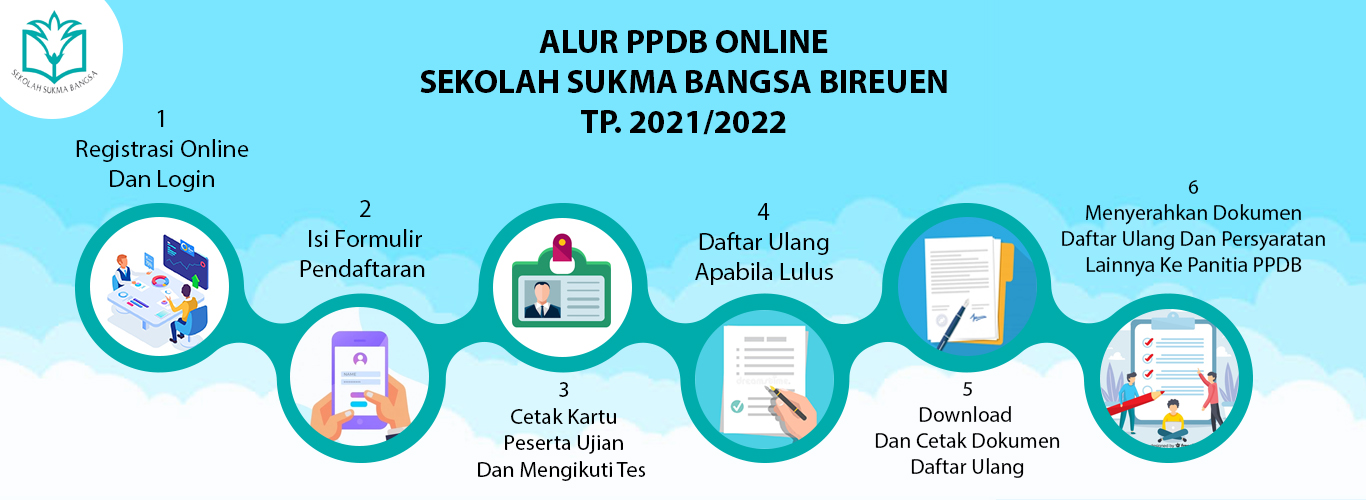
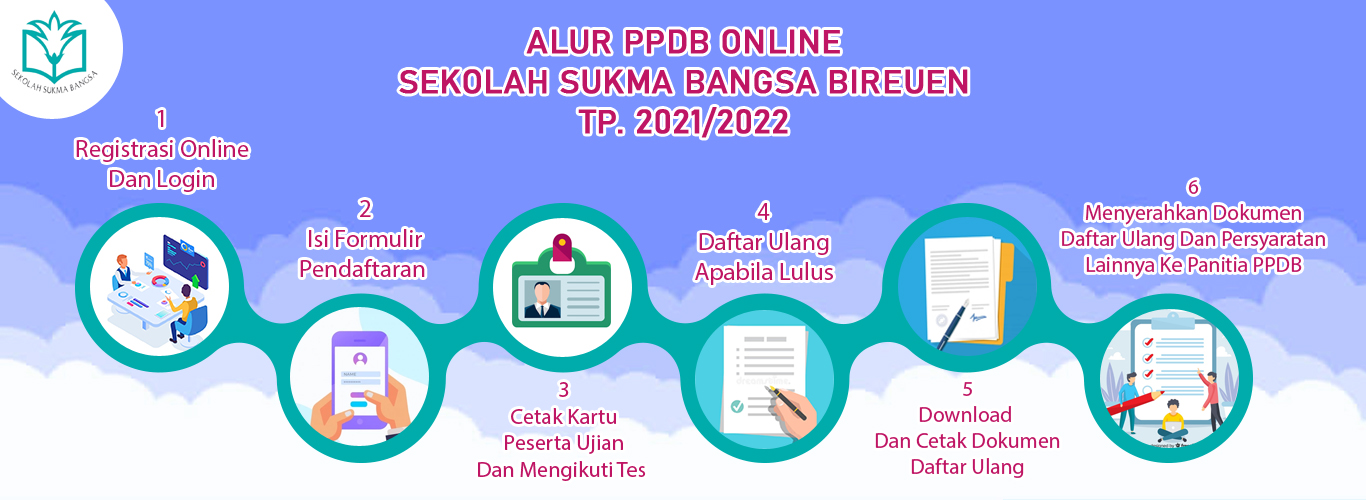
FINISHING

diff --git a/application/views/informasi.php b/application/views/informasi.php
@@ -5,9 +5,10 @@
     <!-- Required meta tags -->
     <meta charset="utf-8">
     <meta name="viewport" content="width=device-width, initial-scale=1, shrink-to-fit=no">
-
-    <!-- Bootstrap CSS -->
-    <link rel="stylesheet" href="https://cdn.jsdelivr.net/npm/bootstrap@4.6.0/dist/css/bootstrap.min.css" integrity="sha384-B0vP5xmATw1+K9KRQjQERJvTumQW0nPEzvF6L/Z6nronJ3oUOFUFpCjEUQouq2+l" crossorigin="anonymous">
+    <link rel="preconnect" href="https://fonts.gstatic.com">
+    <link rel="preconnect" href="https://fonts.gstatic.com">
+    <link rel="preconnect" href="https://fonts.gstatic.com">
+    <link href="https://fonts.googleapis.com/css2?family=RocknRoll+One&family=Share+Tech+Mono&family=Varela+Round&display=swap" rel="stylesheet">    <link rel="stylesheet" href="https://cdn.jsdelivr.net/npm/bootstrap@4.6.0/dist/css/bootstrap.min.css" integrity="sha384-B0vP5xmATw1+K9KRQjQERJvTumQW0nPEzvF6L/Z6nronJ3oUOFUFpCjEUQouq2+l" crossorigin="anonymous">
     <link rel="stylesheet" type="text/css" href="<?=base_url()?>/style.css">
     <link rel="stylesheet" href="https://cdnjs.cloudflare.com/ajax/libs/animate.css/4.1.1/animate.min.css"/>
 
@@ -17,7 +18,7 @@
   
     <nav class="navbar navbar-expand-lg navbar-light bg-light fixed-top">
     <div class="container">
-  <img src="<?=base_url()?>/logo.png" type="image/png" alt="" width="40px"><a class="navbar-brand text-info" href="#"> <b style="color:#00acac;">&nbspPPDB SSB BIREUEN</b></a></img>
+  <img src="<?=base_url()?>/logo.png" type="image/png" alt="" width="40px"><a class="navbar-brand text-info" href="#"> <b style="color:#00acac;font-family: 'Varela Round', sans-serif;">&nbspPPDB SSB BIREUEN</b></a></img>
   <button class="navbar-toggler" type="button" data-toggle="collapse" data-target="#navbarSupportedContent" aria-controls="navbarSupportedContent" aria-expanded="false" aria-label="Toggle navigation">
     <span class="navbar-toggler-icon"></span>
   </button>
@@ -25,25 +26,25 @@
   <div class="collapse navbar-collapse" id="navbarSupportedContent">
     <ul class="navbar-nav ml-auto">
       <li class="nav-item ">
-        <a class="nav-link" href="#home">Home</a>
+        <a class="nav-link" href="#home" style="font-family: 'Share Tech Mono', monospace;">Home</a>
       </li>
       <li class="nav-item ">
-        <a class="nav-link" href="#kuota">Kuota Penerimaan</a>
+        <a class="nav-link" href="#kuota" style="font-family: 'Share Tech Mono', monospace;">Kuota</a>
       </li>
       <li class="nav-item ">
-        <a class="nav-link" href="#rincian">Rincian Biaya Pendidikan</a>
+        <a class="nav-link" href="#rincian" style="font-family: 'Share Tech Mono', monospace;">Rincian Biaya</a>
       </li>
       <li class="nav-item">
-        <a class="nav-link " href="#persyaratan">Persyaratan</a>
+        <a class="nav-link " href="#persyaratan" style="font-family: 'Share Tech Mono', monospace;">Persyaratan</a>
       </li>
       <li class="nav-item">
-        <a class="nav-link " href="#alur">Alur Pendaftaran</a>
+        <a class="nav-link " href="#alur" style="font-family: 'Share Tech Mono', monospace;">Alur</a>
       </li>
       <li class="nav-item">
-        <a class="nav-link " href="#jadwal">Jadwal</a>
+        <a class="nav-link " href="#jadwal" style="font-family: 'Share Tech Mono', monospace;">Jadwal & Seleksi</a>
       </li>
       <li class="nav-item">
-        <a class="nav-link " href="#kontak">Kontak</a>
+        <a class="nav-link " href="#kontak" style="font-family: 'Share Tech Mono', monospace;">Kontak</a>
       </li>
     </ul>
   </div>
@@ -78,13 +79,13 @@
 
 
         <!-- pembukaan -->
-        <h1 class="display-4 text-white  font-weight-bold">PENERIMAAN<br>PESERTA DIDIK BARU</h1>
-        <h3 class="display-5  text-white">SD - SMP - SMA</h3>
-        <h3 class="display-5" style="color:#00acac;">SEKOLAH SUKMA BANGSA BIREUEN <span class="font-weight-bold">TA.2021/2022</span></h3>
+        <h1 class="display-4 text-white  font-weight-bold" style="font-family: 'Share Tech Mono', monospace; font-family: 'Varela Round', sans-serif;">PENERIMAAN<br>PESERTA DIDIK BARU</h1>
+        <h3 class="display-5  text-white" style="font-family: 'Share Tech Mono', monospace;">SD - SMP - SMA</h3>
+        <h3 class="display-5" style="color:#00acac;" style="font-family: 'Share Tech Mono', monospace;">SEKOLAH SUKMA BANGSA BIREUEN TP. 2021/2022</h3>
         <hr class="my-4 ">
-        <h3 class="display-5 text-white " id="demo2" >Waktu Pendaftaran :</h3>
-        <h1 id="demo" class=" text-danger"></h1><br>
-        <a class="btn btn-info btn-lg " id="demo3" href="<?=base_url('hal/login')?>" style="background-color:#00acac;" role="button"><b>Daftar Sekarang</b></a>
+        <h3 class="display-5 text-white " id="demo2" style="font-family: 'Share Tech Mono', monospace;">Waktu Pendaftaran :</h3>
+        <h1 id="demo"  style="color:#FF0000;font-size:30px;font-family: 'RocknRoll One', sans-serif;"></h1><br>
+        <a class="btn btn-info btn-lg " id="demo3" href="<?=base_url('hal/login')?>" style="background-color:#00acac; font-family: 'Share Tech Mono', monospace; font-family: 'Varela Round', sans-serif;" role="button"><b>Daftar Sekarang</b></a>
       </div>
     <div class="carousel-item active">
       <img src="<?=base_url('bg1.JPG')?>" class="d-block w-100" alt="...">
@@ -140,11 +141,11 @@
 <div  id="kuota" style="height: 680px;padding-top:70px;background-color:#f5f8fd;">
 <div class="container">
 <div class="row featurette">
-<h2 class="featurette-heading"><b>KUOTA<span class="text-info"> PENERIMAAN</span></b><br>
+<h2 class="featurette-heading" style="font-family: 'Share Tech Mono', monospace; font-family: 'Varela Round', sans-serif;"><b>KUOTA<span class="text-info"> PENERIMAAN</span></b><br>
 <hr class="my-4" style="border-color: #F05F40;width: 50%;text-align: left;margin-left: 0;margin-top:0px;border-width: 3px;">
 </h2>
 
-            <table class="table table-hover" id="example">
+            <table class="table table-hover" id="example" style="font-family: 'Share Tech Mono', monospace; font-family: 'Varela Round', sans-serif;">
           <thead class="text-center">
             <tr>
               <th scope="col">NO</th>
@@ -173,22 +174,19 @@
 <div  id="rincian" style="height: 680px;padding-top:70px;background-color:#f5f8fd;">
 <div class="container">
 <div class="row featurette">
-<h2 class="featurette-heading"><b>RINCIAN BIAYA<span class="text-info"> PENDIDIKAN</span></b><br>
+<h2 class="featurette-heading" style="font-family: 'Share Tech Mono', monospace; font-family: 'Varela Round', sans-serif;"><b>RINCIAN BIAYA<span class="text-info"> PENDIDIKAN</span></b><br>
 <hr class="my-4" style="border-color: #F05F40;width: 50%;text-align: left;margin-left: 0;margin-top:0px;border-width: 3px;">
 </h2>
 
-            <table class="table table-bordered" id="example">
-          <thead class="text-center">
+            <table class="table table-bordered" id="example" style="font-family: 'Varela Round', sans-serif;">
+          <thead class="text-center" >
             <tr>
-              <th scope="col" rowspan="2">NO</th>
-              <th scope="col" rowspan="2">LEVEL</th>
-              <th scope="col" rowspan="2">BIAYA PERAWATAN SEKOLAH (BPS)<br>*Dibayarkan Sekali Diawal Pendaftaran Ulang</th>
-              <th scope="col" rowspan="2">BIAYA PARTISIPASI PENDIDIKAN (BPP)<br>*dibayarkan per bulan (Untuk daftar ulang BPP Juli)</th>
-              <th scope="col" colspan="2">Biaya Paket Bakal Kain Seragam Sekolah + Kartu Tanda Siswa (KTS)</th>            
-            </tr>
-            <tr>
-            <th>Putra</th>
-            <th>Putri</th>
+              <th scope="col" >NO</th>
+              <th scope="col" >LEVEL</th>
+              <th scope="col" width="250px">BIAYA PERAWATAN SEKOLAH (BPS)<br>*Dibayarkan Sekali Diawal Pendaftaran Ulang</th>
+              <th scope="col"  width="250px">BIAYA PARTISIPASI PENDIDIKAN (BPP)<br>*dibayarkan per bulan (Untuk daftar ulang BPP Juli)</th>
+              <th scope="col"  width="250px">Biaya Paket Bakal Kain Seragam Sekolah<br>+ Kartu Tanda Siswa (KTS)</th>          
+              <th scope="col"  width="250px">Total Biaya</th>            
             </tr>
             
           </thead>
@@ -197,24 +195,26 @@
             <td>SD</td>
             <td>Rp. 3.000.000</td>
             <td>Rp. 300.000</td>
-            <td>Rp.  640.000</td>
-            <td>Rp.  790.000</td>
+            <td>Rp.  800.000</td>
+            <td><b>Rp.  4.100.000</b></td>
             </tbody>
             <tbody class="text-center">
             <td scope="row">2</td>
             <td>SMP</td>
             <td>Rp. 3.000.000</td>
             <td>Rp. 370.000</td>
-            <td>Rp.  720.000</td>
-            <td>Rp.  840.000</td>
+            <td>Rp.  850.000</td>
+            <td><b>Rp.  4.220.000</b></td>
+
             </tbody>
             <tbody class="text-center">
             <td scope="row">3</td>
             <td>SMA</td>
             <td>Rp. 3.000.000</td>
             <td>Rp. 430.000</td>
-            <td>Rp.   720.000</td>
-            <td>Rp.  840.000</td>
+            <td>Rp.  850.000</td>
+            <td><b>Rp.  4.280.000</b></td>
+
             </tbody>
             </tbody>
             </table>
@@ -226,15 +226,15 @@
 <div class="container">
 <div class="row featurette">
           <div class="col-md-7">
-            <h2 class="featurette-heading"><b>SYARAT<span class="text-info"> PENDAFTARAN DAN TES</span></b></h2>
+            <h2 class="featurette-heading" style="font-family: 'Share Tech Mono', monospace; font-family: 'Varela Round', sans-serif;"><b>SYARAT<span class="text-info"> PENDAFTARAN DAN TES</span></b></h2>
             <hr class="my-4" style="border-color: #F05F40;width: 35%;text-align: left;margin-left: 0;margin-top:0px;border-width: 3px;">
-            <p class="lead" style="margin-bottom:0px;"><b>Syarat Pendaftaran : </b></p>
-            <p style="margin-bottom:0px;">1. Minimal Usia 6 Tahun Per Bulan September 2021</p> 
-            <p >2. Mendaftar Akun Dan Login Pada <a href="<?=base_url('hal/registrasi')?>" role="button"><b>Link Berikut</b></a></p> 
-            <p class="lead" style="margin-bottom:0px;"><b>Syarat Mengikuti Tes : </b></p>
-            <p>1. Mengisi Formulir Pendaftaran, Upload Akte Kelahiran Dan Upload Bukti Setor Bank (<b>Tidak Transfer Melalui ATM</b>) Ke Rek. Bank Aceh <b>10002240000336</b> a.n Panitia PPDB Sekolah Sukma Bangsa Bireuen Sebesar <b>Rp.100.000</b></p> 
-            <p>2. Mencetak Dan Membawa Kartu Peserta Ujian Tes Masuk Pada Saat Tes Berlangsung</p> 
-            <p>3. Membawa Surat Keterangan Aktif Yang Ditandatangani Kepala Sekolah Asal Pada Saat Tes Berlangsung</p> 
+            <p class="lead" style="margin-bottom:0px;"style="font-family: 'Share Tech Mono', monospace; font-family: 'Varela Round', sans-serif;"><b class="font-weight-bold">Syarat Pendaftaran : </b></p>
+            <p style="margin-bottom:0px;" style="font-family: 'Share Tech Mono', monospace; font-family: 'Varela Round', sans-serif;">1. Minimal Usia 6 Tahun Per Bulan September 2021</p> 
+            <p style="font-family: 'Share Tech Mono', monospace; font-family: 'Varela Round', sans-serif;">2. Mendaftar Akun Dan Login Pada <a href="<?=base_url('hal/registrasi')?>" role="button"><b>Link Berikut</b></a></p> 
+            <p class="lead" style="margin-bottom:0px;" style="font-family: 'Share Tech Mono', monospace; font-family: 'Varela Round', sans-serif;"><b class="font-weight-bold">Syarat Mengikuti Tes : </b></p>
+            <p style="font-family: 'Share Tech Mono', monospace; font-family: 'Varela Round', sans-serif;">1. Mengisi Formulir Pendaftaran, Upload Akte Kelahiran Dan Upload Bukti Setor Bank (<b>Tidak Transfer Melalui ATM</b>) Ke Rek. Bank Aceh <b>10002240000336</b> a.n Panitia PPDB Sekolah Sukma Bangsa Bireuen Sebesar <b>Rp.100.000</b></p> 
+            <p style="font-family: 'Share Tech Mono', monospace; font-family: 'Varela Round', sans-serif;">2. Mencetak Dan Membawa Kartu Peserta Ujian Tes Masuk Pada Saat Tes Berlangsung</p> 
+            <p style="font-family: 'Share Tech Mono', monospace; font-family: 'Varela Round', sans-serif;">3. Membawa Surat Keterangan Aktif Yang Ditandatangani Kepala Sekolah Asal Pada Saat Tes Berlangsung</p> 
 
 
           </div>
@@ -247,7 +247,7 @@
 
 <div  id="alur" style="height: 680px;padding-top:70px;">
 <div class="container">
-          <h2 class="featurette-heading text-center"><b>ALUR PENDAFTARAN<span class="text-info"> PPDB ONLINE TA.2021/2022</span></b></h2>
+          <h2 class="featurette-heading text-center" style="font-family: 'Share Tech Mono', monospace; font-family: 'Varela Round', sans-serif;"><b>ALUR PENDAFTARAN<span class="text-info"> PPDB ONLINE TA.2021/2022</span></b></h2>
           <hr class="my-4" style="border-color: #F05F40;width: 20%;margin-top:0px;border-width: 3px;">
 
 </div>
@@ -258,11 +258,11 @@
 <div  id="jadwal" style="height: 680px;padding-top:70px;background-color:#f5f8fd;">
 <div class="container">
 <div class="row featurette">
-<h2 class="featurette-heading"><b>JADWAL<span class="text-info"> PENDAFTARAN</span></b><br>
+<h2 class="featurette-heading" style="font-family: 'Share Tech Mono', monospace; font-family: 'Varela Round', sans-serif;"><b>JADWAL<span class="text-info"> PENDAFTARAN</span></b><br>
 <hr class="my-4" style="border-color: #F05F40;width: 50%;text-align: left;margin-left: 0;margin-top:0px;border-width: 3px;">
 </h2>
 
-            <table class="table table-hover" id="example">
+            <table class="table table-hover" id="example" style="font-family: 'Share Tech Mono', monospace; font-family: 'Varela Round', sans-serif;">
           <thead class="text-center">
             <tr>
               <th scope="col">NO</th>
@@ -310,8 +310,8 @@
 <div  id="kontak" style="height: 550px;padding-top:70px;">
 <div class="container">
         <div class="row featurette">
-          <div class="col-md-7 order-md-2">
-          <h2 class="featurette-heading"><b>KONTAK<span class="text-info"> PANITIA PENDAFTARAN</span></b></h2>
+          <div class="col-md-7 order-md-2" style="font-family: 'Share Tech Mono', monospace; font-family: 'Varela Round', sans-serif;">
+          <h2 class="featurette-heading"><b>KONTAK<span class="text-info"> PANITIA</span></b></h2>
           <hr class="my-4" style="border-color: #F05F40;width: 35%;text-align: left;margin-left: 0;margin-top:0px;border-width: 3px;">
             <p class="lead" style="margin-bottom:0px;">Alamat : </p>
             <p>Jln. Banda Aceh - Medan, Desa Cot Keutapang Kecamatan Jeumpa, Kabupaten Bireuen, 24251 Provinsi Aceh, Indonesia</p>
@@ -328,7 +328,7 @@
             
           </div>
           <div class="col-md-4 order-md-1">
-            <img class="featurette-image img-fluid mx-auto" src="<?=base_url()?>/kontak.JPG" alt="Generic placeholder image" width="300px">
+            <img class="featurette-image img-fluid mx-auto" src="<?=base_url()?>/kontak.jpeg" alt="Generic placeholder image" width="300px">
           </div>
         </div>
 </div>

diff --git a/application/views/kelulusan.php b/application/views/kelulusan.php
@@ -13,6 +13,8 @@
     <link rel="stylesheet" type="text/css" href="//cdn.datatables.net/1.10.22/css/jquery.dataTables.min.css">
   <link rel="stylesheet" type="text/css" href="https://cdn.datatables.net/1.10.22/css/jquery.dataTables.css">
   <script type="text/javascript" charset="utf8" src="//cdn.datatables.net/1.10.22/js/jquery.dataTables.min.js"></script>
+  <link href="https://fonts.googleapis.com/css2?family=RocknRoll+One&family=Share+Tech+Mono&family=Varela+Round&display=swap" rel="stylesheet">    <link rel="stylesheet" href="https://cdn.jsdelivr.net/npm/bootstrap@4.6.0/dist/css/bootstrap.min.css" integrity="sha384-B0vP5xmATw1+K9KRQjQERJvTumQW0nPEzvF6L/Z6nronJ3oUOFUFpCjEUQouq2+l" crossorigin="anonymous">
+
 
   <script type="text/javascript" charset="utf8" src="https://cdn.datatables.net/1.10.22/js/jquery.dataTables.js"></script>
 
@@ -25,7 +27,7 @@ $(document).ready( function () {
 </script>
     <title>PPDB SEKOLAH SUKMA BANGSA BIREUEN</title>
   </head>
-  <body data-spy="scroll" data-target=".navbar" data-offset="50">
+  <body data-spy="scroll" data-target=".navbar" data-offset="50" style="font-family: 'Varela Round', sans-serif;">
   
     <nav class="navbar navbar-expand-lg navbar-light bg-light fixed-top">
     <div class="container">
@@ -37,13 +39,13 @@ $(document).ready( function () {
   <div class="collapse navbar-collapse" id="navbarSupportedContent">
     <ul class="navbar-nav ml-auto">
       <li class="nav-item ">
-        <a class="nav-link" href="#sd">PENGUMUMAN KELULUSAN</a>
+        <a class="nav-link" href="#sd" style="font-family: 'Share Tech Mono', monospace;">PENGUMUMAN KELULUSAN</a>
       </li>
       <li class="nav-item">
-        <a class="nav-link " href="#jadwal">KETENTUAN DAFTAR ULANG</a>
+        <a class="nav-link " href="#jadwal" style="font-family: 'Share Tech Mono', monospace;">KETENTUAN DAFTAR ULANG</a>
       </li>
       <li class="nav-item">
-        <a class="nav-link " href="#kontak">KONTAK</a>
+        <a class="nav-link " href="#kontak" style="font-family: 'Share Tech Mono', monospace;">KONTAK</a>
       </li>
     </ul>
   </div>
@@ -51,11 +53,11 @@ $(document).ready( function () {
 </nav>
 
 
-<div  id="sd" style="height: 750px;padding-top:70px;background-color:#f5f8fd;">
+<div  id="sd" style="height: 1000px;padding-top:70px;background-color:#f5f8fd;">
 <div class="container">
 <div class="text-center">
           <div>
-            <h2 class="featurette-heading"><b>PENGUMUMAN KELULUSAN PPDB<br><span class="text-info"> SEKOLAH SUKMA BANGSA BIREUEN TA.2021/2022</span></b>
+            <h2 class="featurette-heading"><b>PENGUMUMAN KELULUSAN PPDB<br><span class="text-info"> SEKOLAH SUKMA BANGSA BIREUEN TP. 2021/2022</span></b>
             <hr class="my-4" style="border-color: #F05F40;width: 20%;margin-top:0px;border-width: 3px;">
           </h2><br>
 
@@ -102,7 +104,7 @@ $(document).ready( function () {
 </div>
 </div>
 
-<div  id="jadwal" style="height: 1200px;padding-top:70px;background-color:#f5f8fd;">
+<div  id="jadwal" style="height: 1500px;padding-top:70px;background-color:#f5f8fd;">
 <div class="container">
 <div class="row featurette">
           <div class="col-md-7">
@@ -149,7 +151,7 @@ $(document).ready( function () {
           <div class="col-md-5">
             <img class=" img-fluid mx-auto" src="<?=base_url()?>/jadwal.JPG" alt="Generic placeholder image">
           </div>
-          <p class="text-danger"><b>Dokumen Tersebut Diatas Dibawa Dan Disatukan Dalam Map Berwarna Merah Saat Pendaftaran Ulang. Harap Membawa Masker Dan Menjaga Protokol Kesehatan Saat Proses Pendaftaran Ulang.</b></p> 
+          <p class="text-danger" style="font-size:12px;"><b>Dokumen Tersebut Diatas Dibawa Dan Disatukan Dalam Map Berwarna Merah Saat Pendaftaran Ulang. Harap Memakai Masker Dan Menjaga Protokol Kesehatan Saat Proses Pendaftaran Ulang.</b></p> 
 
 
         </div>
@@ -177,7 +179,7 @@ $(document).ready( function () {
             
           </div>
           <div class="col-md-4 order-md-1">
-            <img class=" img-fluid mx-auto" src="<?=base_url()?>/kontak.JPG" width="300px" alt="Generic placeholder image">
+            <img class=" img-fluid mx-auto" src="<?=base_url()?>/kontak.jpeg" width="300px" alt="Generic placeholder image">
           </div>
         </div>
 </div>
@@ -221,6 +223,7 @@ $(document).ready( function () {
 $(document).ready(function() {
     $('#example').DataTable( {
       "lengthChange": false,
+      "pageLength": 5 ,
       "oLanguage": {
       "sSearch": "Cari Nama : ",
       "scrollX": true

diff --git a/application/views/login.php b/application/views/login.php
@@ -5,6 +5,7 @@
     <!-- Required meta tags -->
     <meta charset="utf-8">
     <meta name="viewport" content="width=device-width, initial-scale=1, shrink-to-fit=no">
+    <link href="https://fonts.googleapis.com/css2?family=RocknRoll+One&family=Share+Tech+Mono&family=Varela+Round&display=swap" rel="stylesheet">    <link rel="stylesheet" href="https://cdn.jsdelivr.net/npm/bootstrap@4.6.0/dist/css/bootstrap.min.css" integrity="sha384-B0vP5xmATw1+K9KRQjQERJvTumQW0nPEzvF6L/Z6nronJ3oUOFUFpCjEUQouq2+l" crossorigin="anonymous">
 
     <!-- Bootstrap CSS -->
     <link rel="stylesheet" href="https://stackpath.bootstrapcdn.com/bootstrap/4.5.0/css/bootstrap.min.css" integrity="sha384-9aIt2nRpC12Uk9gS9baDl411NQApFmC26EwAOH8WgZl5MYYxFfc+NcPb1dKGj7Sk" crossorigin="anonymous">
@@ -20,7 +21,7 @@
   </div>
 <div class="container shadow p-3 mb-5 bg-white rounded">
         <img class="img mx-auto d-block" src="<?php echo base_url('logo.png');?>" width="100px">
-        <h6 class="text-center font-weight-bold">PPDB ONLINE TA.2021/2022<br>SEKOLAH SUKMA BANGSA<br>BIREUEN</h6>
+        <h6 class="text-center font-weight-bold" style="font-family: 'Share Tech Mono', monospace;">PPDB ONLINE TA.2021/2022<br>SEKOLAH SUKMA BANGSA<br>BIREUEN</h6>
         <form action="<?php echo base_url('hal/login_aksi');?>" method="post">
             <div class="input-group mb-3">
                 <div class="input-group-prepend">
@@ -34,8 +35,8 @@
                 </div>
                 <input type="password" class="form-control" placeholder="Password" name="password" required>
             </div>
-            <button type="submit" class="btn btn-info btn-block font-weight-bold">LOGIN</button>
-            <div class=" d-flex justify-content-center" style="margin-top:-20px"><strong ><a class="text-info"href="<?php echo base_url('hal/registrasi');?>">REGISTRASI AKUN</a></strong></div>
+            <button type="submit" class="btn btn-info btn-block font-weight-bold" style="font-family: 'Varela Round', sans-serif;">LOGIN</button>
+            <div class=" d-flex justify-content-center" style="margin-top:-20px;font-family: 'Varela Round', sans-serif;" ><strong ><a class="text-info"href="<?php echo base_url('hal/registrasi');?>">REGISTRASI AKUN</a></strong></div>
         </form>
     </div>
     <br><br>

diff --git a/application/views/template/header.php b/application/views/template/header.php
@@ -11,6 +11,8 @@
   <link rel="stylesheet" href="<?php echo base_url()?>asset/plugins/fontawesome-free/css/all.min.css">
   <!-- Ionicons -->
   <link rel="stylesheet" href="https://code.ionicframework.com/ionicons/2.0.1/css/ionicons.min.css">
+  <link href="https://fonts.googleapis.com/css2?family=RocknRoll+One&family=Share+Tech+Mono&family=Varela+Round&display=swap" rel="stylesheet">    <link rel="stylesheet" href="https://cdn.jsdelivr.net/npm/bootstrap@4.6.0/dist/css/bootstrap.min.css" integrity="sha384-B0vP5xmATw1+K9KRQjQERJvTumQW0nPEzvF6L/Z6nronJ3oUOFUFpCjEUQouq2+l" crossorigin="anonymous">
+
   <!-- Tempusdominus Bbootstrap 4 -->
   <link rel="stylesheet" href="<?php echo base_url()?>asset/plugins/tempusdominus-bootstrap-4/css/tempusdominus-bootstrap-4.min.css">
   <!-- iCheck -->
@@ -26,7 +28,6 @@
   <!-- summernote -->
   <link rel="stylesheet" href="<?php echo base_url()?>asset/plugins/summernote/summernote-bs4.css">
   <!-- Google Font: Source Sans Pro -->
-  <link href="https://fonts.googleapis.com/css?family=Source+Sans+Pro:300,400,400i,700" rel="stylesheet">
   
   <link rel="stylesheet" type="text/css" href="//cdn.datatables.net/1.10.22/css/jquery.dataTables.min.css">
   <link rel="stylesheet" type="text/css" href="https://cdn.datatables.net/1.10.22/css/jquery.dataTables.css">
@@ -41,7 +42,7 @@ $(document).ready( function () {
 </script>
 
 </head>
-<body class="hold-transition sidebar-mini layout-fixed">
+<body class="hold-transition sidebar-mini layout-fixed" >
 <div class="wrapper">
 
   <!-- Navbar -->
